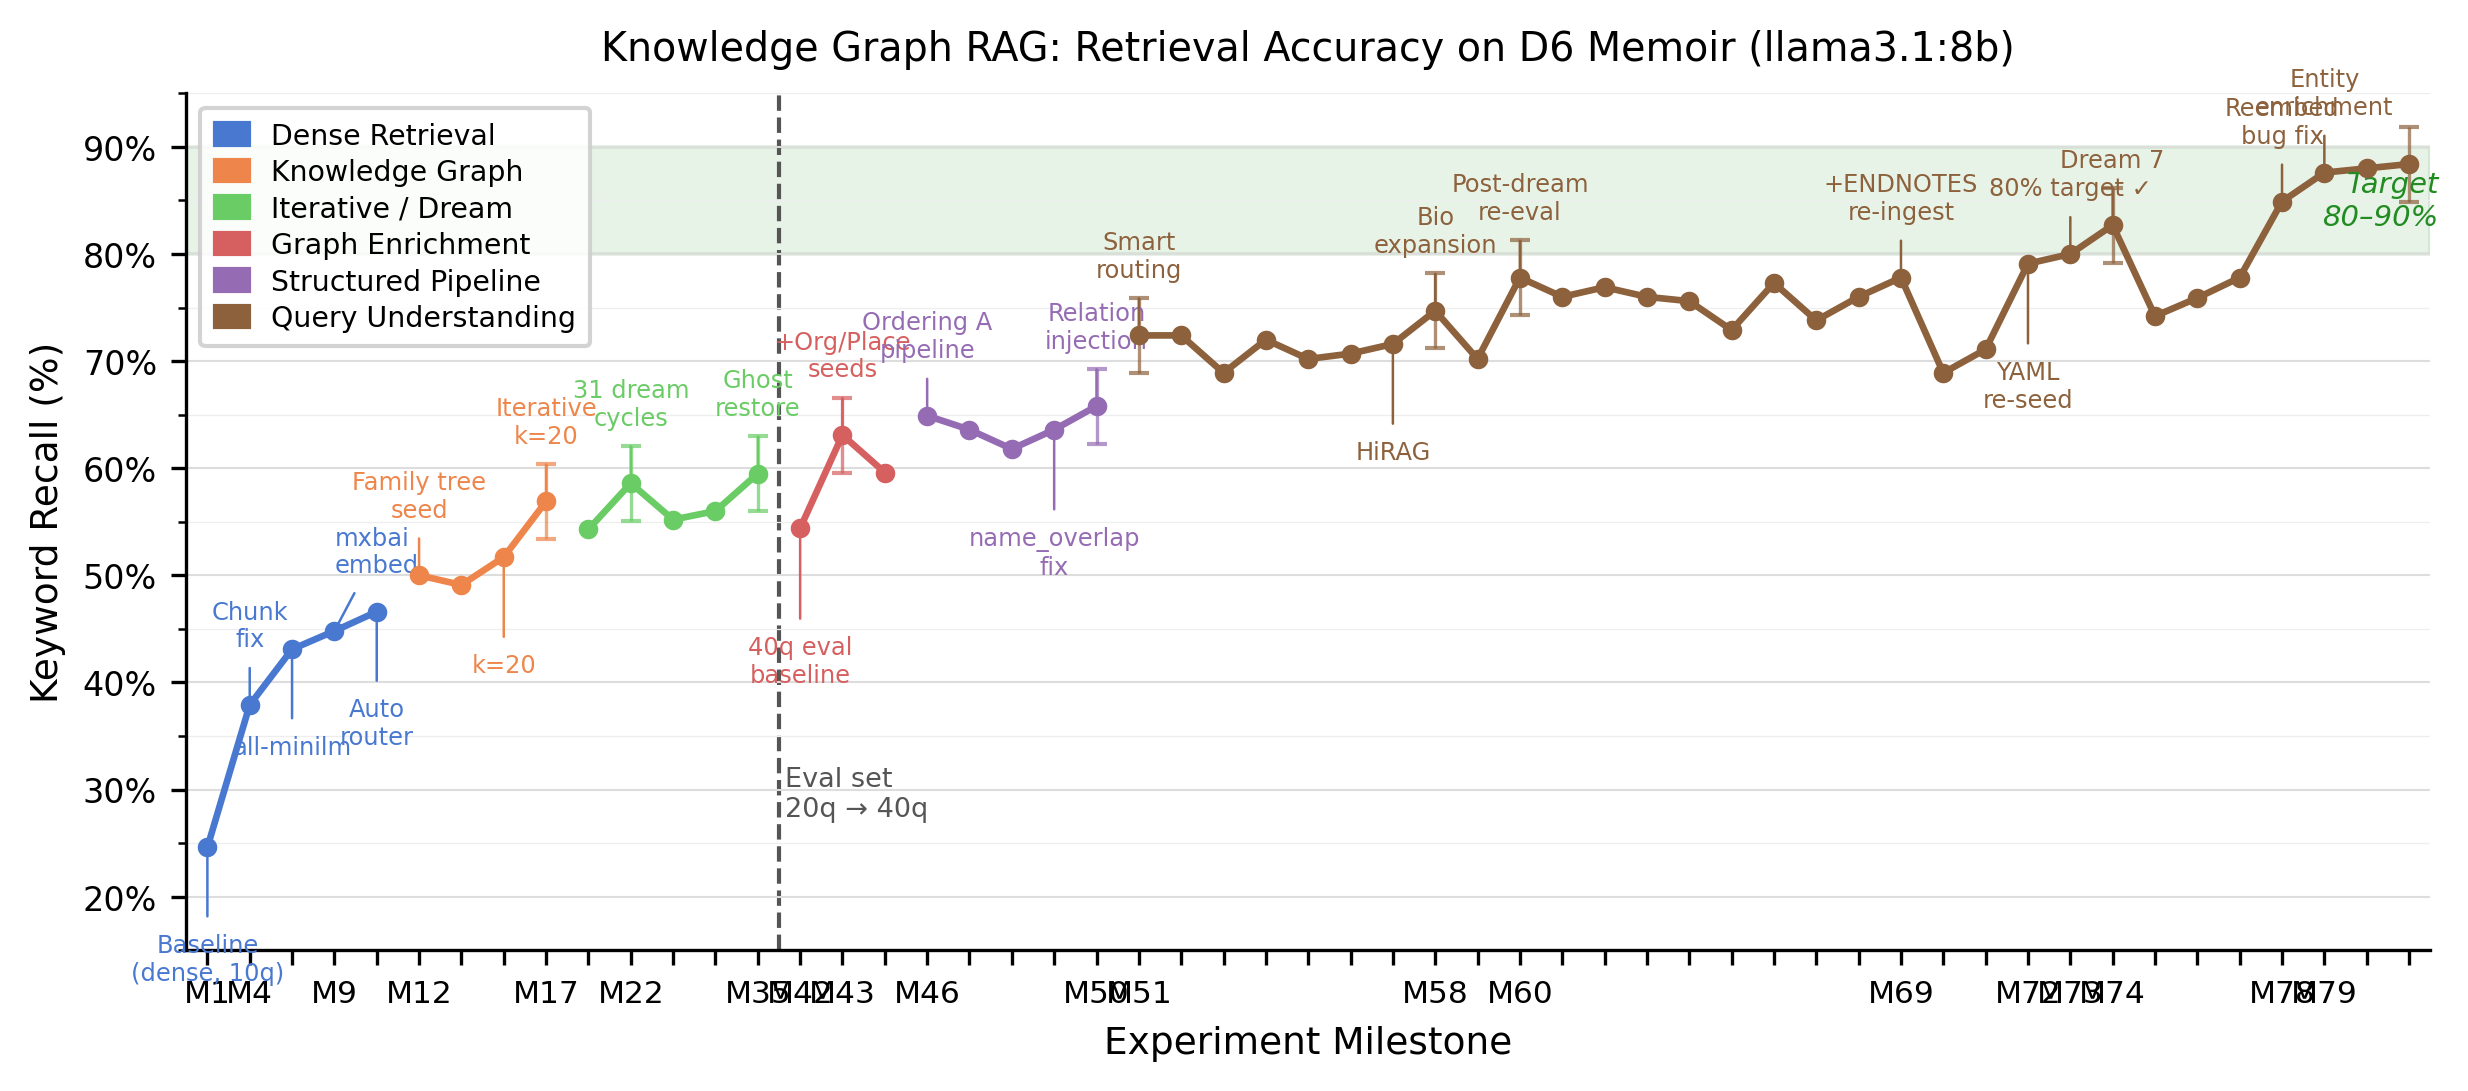
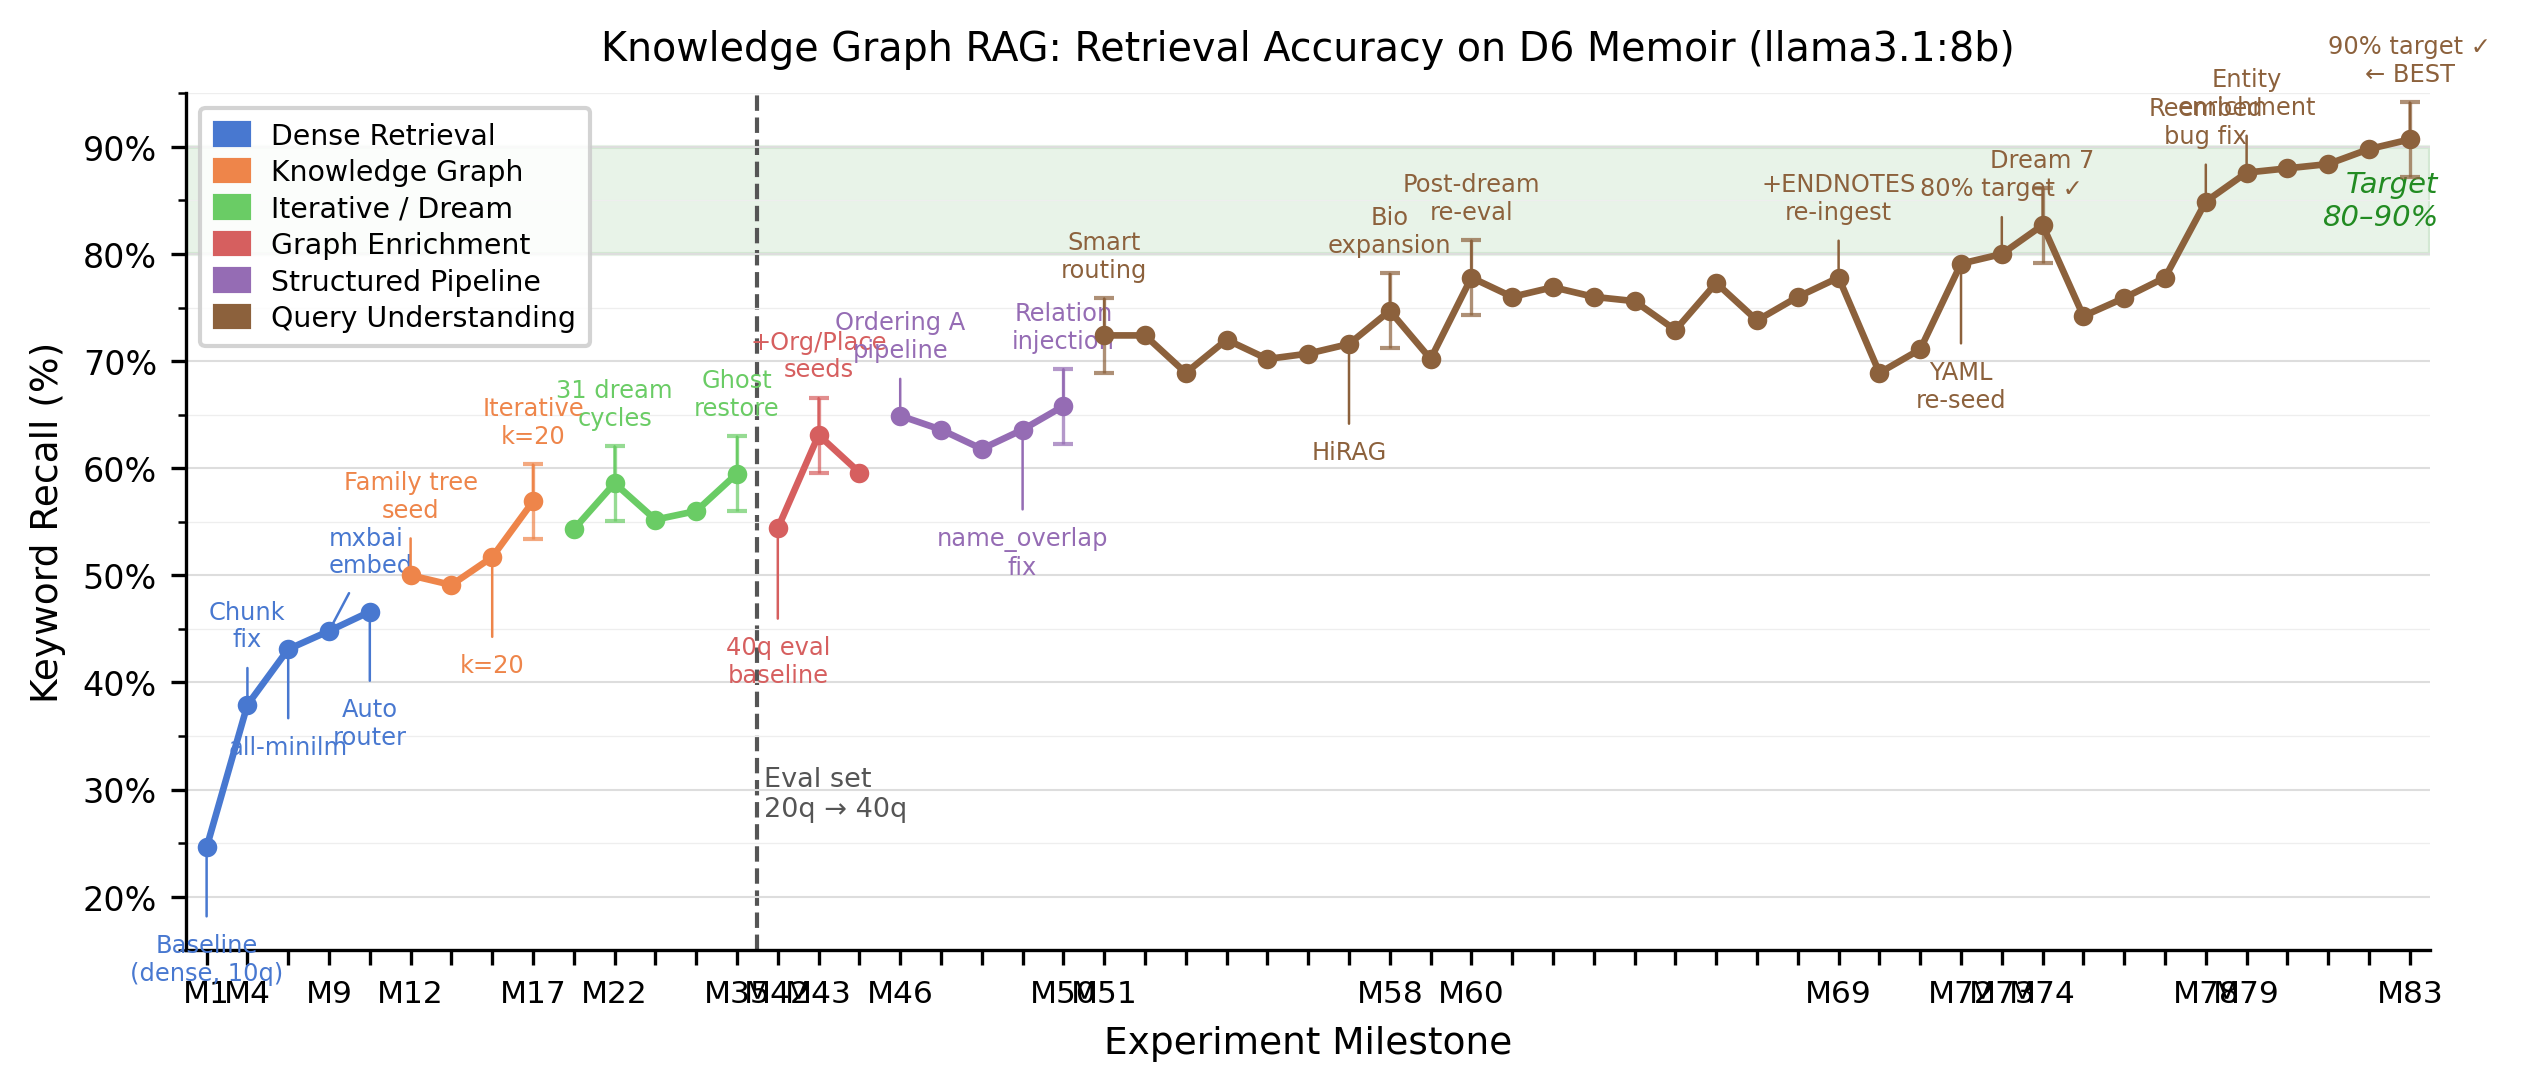
feat(kwaai-knowledge): M83 — 90.7% eval score, first run above 90% target
- Revert Haji Joosub description to original (front-load change caused Q05 regression)
- Keep enriched "7 Buitencingle Street" description (Dutch/belt/cobbled/palm trees → Q06: 2→7)
- Keep Kismets "District Six" front-load (Q20: 4→5)
- r53: 204/225 = 90.7% — new all-time best, first above 90% target
- r52: 193/225 intermediate (Haji Joosub change + Q12 network failure) — logged, not tagged
- Progress chart updated with M82, M83

diff --git a/projects/kwaai-knowledge/d6_progress_chart.py b/projects/kwaai-knowledge/d6_progress_chart.py
@@ -93,7 +93,9 @@ MILESTONES = [
     ("M78", 84.9, 5, "Reembed\nbug fix"),
     ("M79", 87.6, 5, "Entity\nenrichment"),
     ("M80", 88.0, 5, None),
-    ("M81", 88.4, 5, "Routing\nfix ← BEST"),
+    ("M81", 88.4, 5, "Routing\nfix"),
+    ("M82", 89.8, 5, None),
+    ("M83", 90.7, 5, "90% target ✓\n← BEST"),
 ]
 
 # Eval set change: from 20q/116kw to 40q/225kw between M35 and M42
@@ -103,7 +105,7 @@ EVAL_CHANGE_X = 14.5  # midpoint between M35 (x=13) and M42 (x=14)
 NOISE = 3.5
 
 # Representative points that get error bars (to avoid clutter)
-ERROR_BAR_LABELS = {"M17", "M22", "M35", "M43", "M50", "M51", "M58", "M60", "M74", "M81"}
+ERROR_BAR_LABELS = {"M17", "M22", "M35", "M43", "M50", "M51", "M58", "M60", "M74", "M83"}
 
 # ---------------------------------------------------------------------------
 # Build arrays
@@ -184,6 +186,7 @@ ANNO_POS = {
     "M74": (+5,  "center"),
     "M78": (+5,  "center"),
     "M79": (+5,  "center"),
+    "M83": (+5,  "center"),
 }
 
 for i, (label, recall, phase_idx, ann) in enumerate(MILESTONES):
@@ -210,7 +213,7 @@ ax.set_xlabel("Experiment Milestone", fontsize=9)
 tick_labels = [m[0] if m[0] in {
     "M1", "M4", "M9", "M12", "M17", "M22", "M35",
     "M42", "M43", "M46", "M50", "M51", "M58", "M60",
-    "M69", "M72", "M73", "M74", "M78", "M79"
+    "M69", "M72", "M73", "M74", "M78", "M79", "M83"
 } else "" for m in MILESTONES]
 ax.set_xticks(xs)
 ax.set_xticklabels(tick_labels, fontsize=7.5, rotation=0)

diff --git a/tests/kwaai-knowledge/results/eval_log.md b/tests/kwaai-knowledge/results/eval_log.md
@@ -1,4 +1,46 @@
 
+## r53 — 2026-06-18 08:37 — **90.7% (204.0/225)** ⭐ new best — first run above 90%!
+
+**Flags:** smart mode, biographical-expansion, model=llama3.1:8b, metro-linux p2p
+
+**Changes since r51 (202/225 = 89.8%):** +2 pts
+- **YAML**: "7 Buitencingle Street" description enriched with Dutch/belt/cobbled/palm trees/No.7/grandfather
+- **YAML**: "Buitencingle" added as alias → EE entity merged into YAML canonical (23 mentions total)
+- **YAML**: Kismets Cricket Club description — "District Six" moved to first sentence
+- **Graph**: re-seed + re-embed to apply YAML changes
+- Note: Haji Joosub description change (Joosub/Gujarat front-load) was tried in r52 but reverted — it caused Q05 regression (-2) with no Q30 gain
+
+| Q | r51 | r53 | delta | Note |
+|---|-----|-----|-------|------|
+| q06 | 2 | 7 | +5 | Buitencingle: Dutch/belt/cobbled/palm trees/No.7 now in entity description |
+| q20 | 4 | 5 | +1 | Kismets: District Six now first in description → LLM includes it |
+| q25 | 3 | 5 | +2 | Tabata — non-det improvement |
+| q19 | 5 | 6 | +1 | non-det |
+| q27 | 4 | 5 | +1 | Indian Opinion — non-det |
+| q39 | 5 | 6 | +1 | non-det |
+| q40 | 3 | 4 | +1 | non-det |
+| q05 | 8 | 6 | -2 | LLM non-det or slight embedding shift from Buitencingle merge |
+| q09 | 9 | 8 | -1 | LLM non-det |
+| q10 | 7 | 6 | -1 | LLM non-det |
+| q11 | 6 | 5 | -1 | LLM non-det |
+| q16 | 6 | 5 | -1 | Gandhi — non-det |
+| q17 | 5 | 4 | -1 | non-det |
+| q32 | 5 | 4 | -1 | non-det |
+| q33 | 5 | 4 | -1 | non-det |
+| q34 | 6 | 5 | -1 | non-det |
+
+**Per-question:** Q01:3, Q02:3, Q03:6, Q04:4, Q05:6, Q06:7, Q07:3, Q08:5, Q09:8, Q10:6, Q11:5, Q12:6, Q13:6, Q14:5, Q15:6, Q16:5, Q17:4, Q18:6, Q19:6, Q20:5, Q21:5, Q22:4, Q23:5, Q24:7, Q25:5, Q26:6, Q27:5, Q28:5, Q29:4, Q30:4, Q31:5, Q32:4, Q33:4, Q34:5, Q35:4, Q36:6, Q37:7, Q38:4, Q39:6, Q40:4
+
+**Still broken:**
+- q05 (6/8): regression from Buitencingle merge — may be non-det, investigate
+- q06 (7/8): missing 1 keyword still (Table Mountain?) — strong improvement from 2/8
+- q29 (4/6): NEUM boycott — non-det variance
+- q30 (4/6): Gujarat/Joosub — Haji Joosub description front-load was reverted (too risky)
+
+## r52 — 2026-06-18 08:26 — **85.8% (193.0/225)** ⚠️ intermediate (regression)
+
+**Changes:** Haji Joosub description front-loaded (Joosub/Gujarat) — caused Q05 8→6 (-2); Q12 network failure (stream reset) -6. Reverted Haji Joosub in r53.
+
 ## r51 — 2026-06-18 08:13 — **89.8% (202.0/225)**
 
 **Flags:** smart mode, biographical-expansion, model=llama3.1:8b, metro-linux p2p